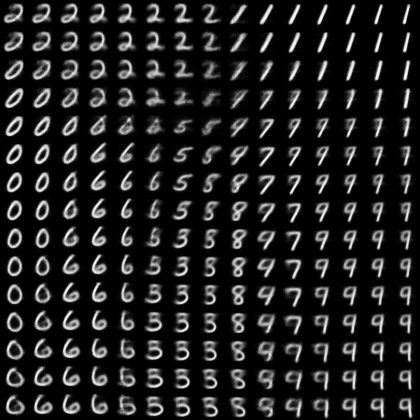
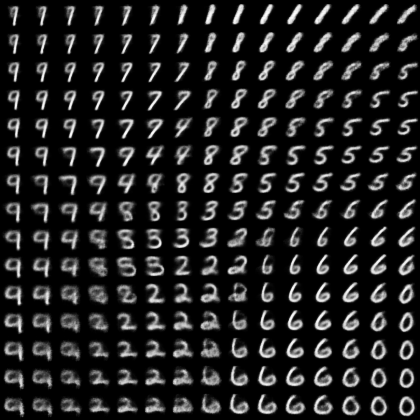
Stable version 1

diff --git a/utils/models.py b/utils/models.py
@@ -4,13 +4,13 @@ from tensorflow import keras
 
 
 class Sampling(keras.layers.Layer):
-    """Uses (z_mean, z_log_var) to sample z, the vector encoding a digit."""
+    """Uses (z_mean, z_var) to sample z, the vector encoding a digit."""
     def call(self, inputs):
-        z_mean, z_log_var = inputs
+        z_mean, z_var = inputs
         batch = tf.shape(z_mean)[0]
         dim = tf.shape(z_mean)[1]
         epsilon = tf.random.normal(shape=(batch, dim))
-        return z_mean + tf.exp(z_log_var) * epsilon
+        return z_mean + tf.exp(z_var) * epsilon
 
 
 def create_vae_model(input_shape, latent_dim):
@@ -24,9 +24,10 @@ def create_vae_model(input_shape, latent_dim):
     x = keras.layers.Flatten()(x)
     x = keras.layers.Dense(32, 'relu')(x)
     z_mean = keras.layers.Dense(latent_dim)(x)
-    z_log_var = keras.layers.Dense(latent_dim)(x)
-    z = Sampling()([z_mean, z_log_var])
+    z_var = keras.layers.Dense(latent_dim)(x)
+    z = Sampling()([z_mean, z_var])
     encoder = keras.Model(inputs=img_inputs, outputs=z, name='encoder')
+    encoder.summary()
 
     # Define decoder model.
     latent_inputs = keras.Input((latent_dim,))
@@ -36,6 +37,7 @@ def create_vae_model(input_shape, latent_dim):
     x = keras.layers.Conv2DTranspose(64, 3, strides=2, padding='same', activation='relu')(x)
     img_outputs = keras.layers.Conv2D(1, 3, padding='same', activation='sigmoid')(x)
     decoder = keras.Model(inputs=latent_inputs, outputs=img_outputs, name='decoder')
+    decoder.summary()
 
     # Define VAE model.
     z = encoder(img_inputs)
@@ -43,6 +45,7 @@ def create_vae_model(input_shape, latent_dim):
     vae = keras.Model(inputs=img_inputs, outputs=img_outputs, name='vae')
 
     # add KL loss
-    kl_loss = -0.5 * tf.reduce_mean(1 + z_log_var - tf.square(z_mean) - tf.exp(z_log_var))
+    kl_loss = 0.5 * tf.reduce_mean(tf.square(z_mean) - 1 - z_var + tf.exp(z_var))
+
     vae.add_loss(kl_loss)
     return vae

diff --git a/train.py b/train.py
@@ -3,7 +3,7 @@ import tensorflow as tf
 import tensorflow_datasets as tfds
 from tensorflow import keras
 from utils.models import create_vae_model
-from utils.losses import MSELoss
+from utils.losses import reconstruction_loss
 from utils.callbacks import SaveDecoderOutput, SaveDecoderModel
 os.environ["CUDA_VISIBLE_DEVICES"] = "0"
 
@@ -21,14 +21,16 @@ batch_size = 16
 latent_dim = 2
 input_shape = (28, 28, 1)
 
-# Load datasets and setting
-AUTOTUNE = tf.data.experimental.AUTOTUNE  # 自動調整模式
+# Load datasets
 train_data = tfds.load(dataset, split=tfds.Split.TRAIN)
+test_data = tfds.load(dataset, split=tfds.Split.TEST)
+
+# Setting datasets
+AUTOTUNE = tf.data.experimental.AUTOTUNE  # 自動調整模式
 train_data = train_data.shuffle(1000)
 train_data = train_data.map(parse_fn, num_parallel_calls=AUTOTUNE)
 train_data = train_data.batch(batch_size)
 train_data = train_data.prefetch(buffer_size=AUTOTUNE)
-test_data = tfds.load(dataset, split=tfds.Split.TEST)
 test_data = test_data.map(parse_fn, num_parallel_calls=AUTOTUNE)
 test_data = test_data.batch(batch_size)
 test_data = test_data.prefetch(buffer_size=AUTOTUNE)
@@ -45,5 +47,5 @@ vae_model = create_vae_model(input_shape, latent_dim)
 
 # training
 optimizer = tf.keras.optimizers.RMSprop()
-vae_model.compile(optimizer, loss=MSELoss())
+vae_model.compile(optimizer, loss=reconstruction_loss)
 vae_model.fit(train_data, epochs=20, validation_data=test_data, callbacks=[model_tb, model_sdw, model_testd])

diff --git a/utils/losses.py b/utils/losses.py
@@ -1,20 +1,10 @@
 import tensorflow as tf
-from tensorflow.python.keras.losses import LossFunctionWrapper
-
-
-class MSELoss(LossFunctionWrapper):
-    def __init__(self, name='mse_loss'):
-        super(MSELoss, self).__init__(mse_loss, name=name)
 
 
 def mse_loss(y_true, y_pred):
     return tf.reduce_mean(tf.reduce_sum(tf.math.squared_difference(y_true, y_pred), axis=[1, 2, 3]))
 
 
-class ReconstructionLoss(LossFunctionWrapper):
-    def __init__(self, name='reconstruction_loss'):
-        super(ReconstructionLoss, self).__init__(binary_cross_entropy, name=name)
-
-
-def binary_cross_entropy(y_true, y_pred):
-    return tf.reduce_mean(tf.reduce_sum(tf.nn.sigmoid_cross_entropy_with_logits(y_true, y_pred), axis=[1, 2, 3]))
+def reconstruction_loss(y_true, y_pred):
+    bce = y_true * tf.math.log(y_pred + 1e-07) + (1 - y_true) * tf.math.log(1 - y_pred + 1e-07)
+    return tf.reduce_mean(tf.reduce_sum(-bce, axis=[1, 2, 3]))

diff --git a/test.py b/test.py
@@ -3,7 +3,7 @@ import tensorflow as tf
 from scipy.stats import norm
 import matplotlib.pyplot as plt
 import os
-os.environ["CUDA_VISIBLE_DEVICES"] = "1"
+os.environ["CUDA_VISIBLE_DEVICES"] = "0"
 
 
 size = 28
@@ -12,7 +12,7 @@ save_images = np.zeros((size * n, size * n, 1))
 # linearly spaced coordinates corresponding to the 2D plot of digit classes in the latent space
 grid_x = np.linspace(-1.5, 1.5, n)
 grid_y = np.linspace(-1.5, 1.5, n)
-model = tf.keras.models.load_model('logs_vae/models/best_model.h5')
+model = tf.keras.models.load_model('logs_vae_1/models/best_model.h5')
 for i, yi in enumerate(grid_x):
     for j, xi in enumerate(grid_y):
         z_sample = np.array([[xi, yi]])

diff --git a/utils/callbacks.py b/utils/callbacks.py
@@ -1,7 +1,6 @@
 import os
 import numpy as np
 import tensorflow as tf
-from scipy.stats import norm
 
 
 class SaveDecoderOutput(tf.keras.callbacks.Callback):
